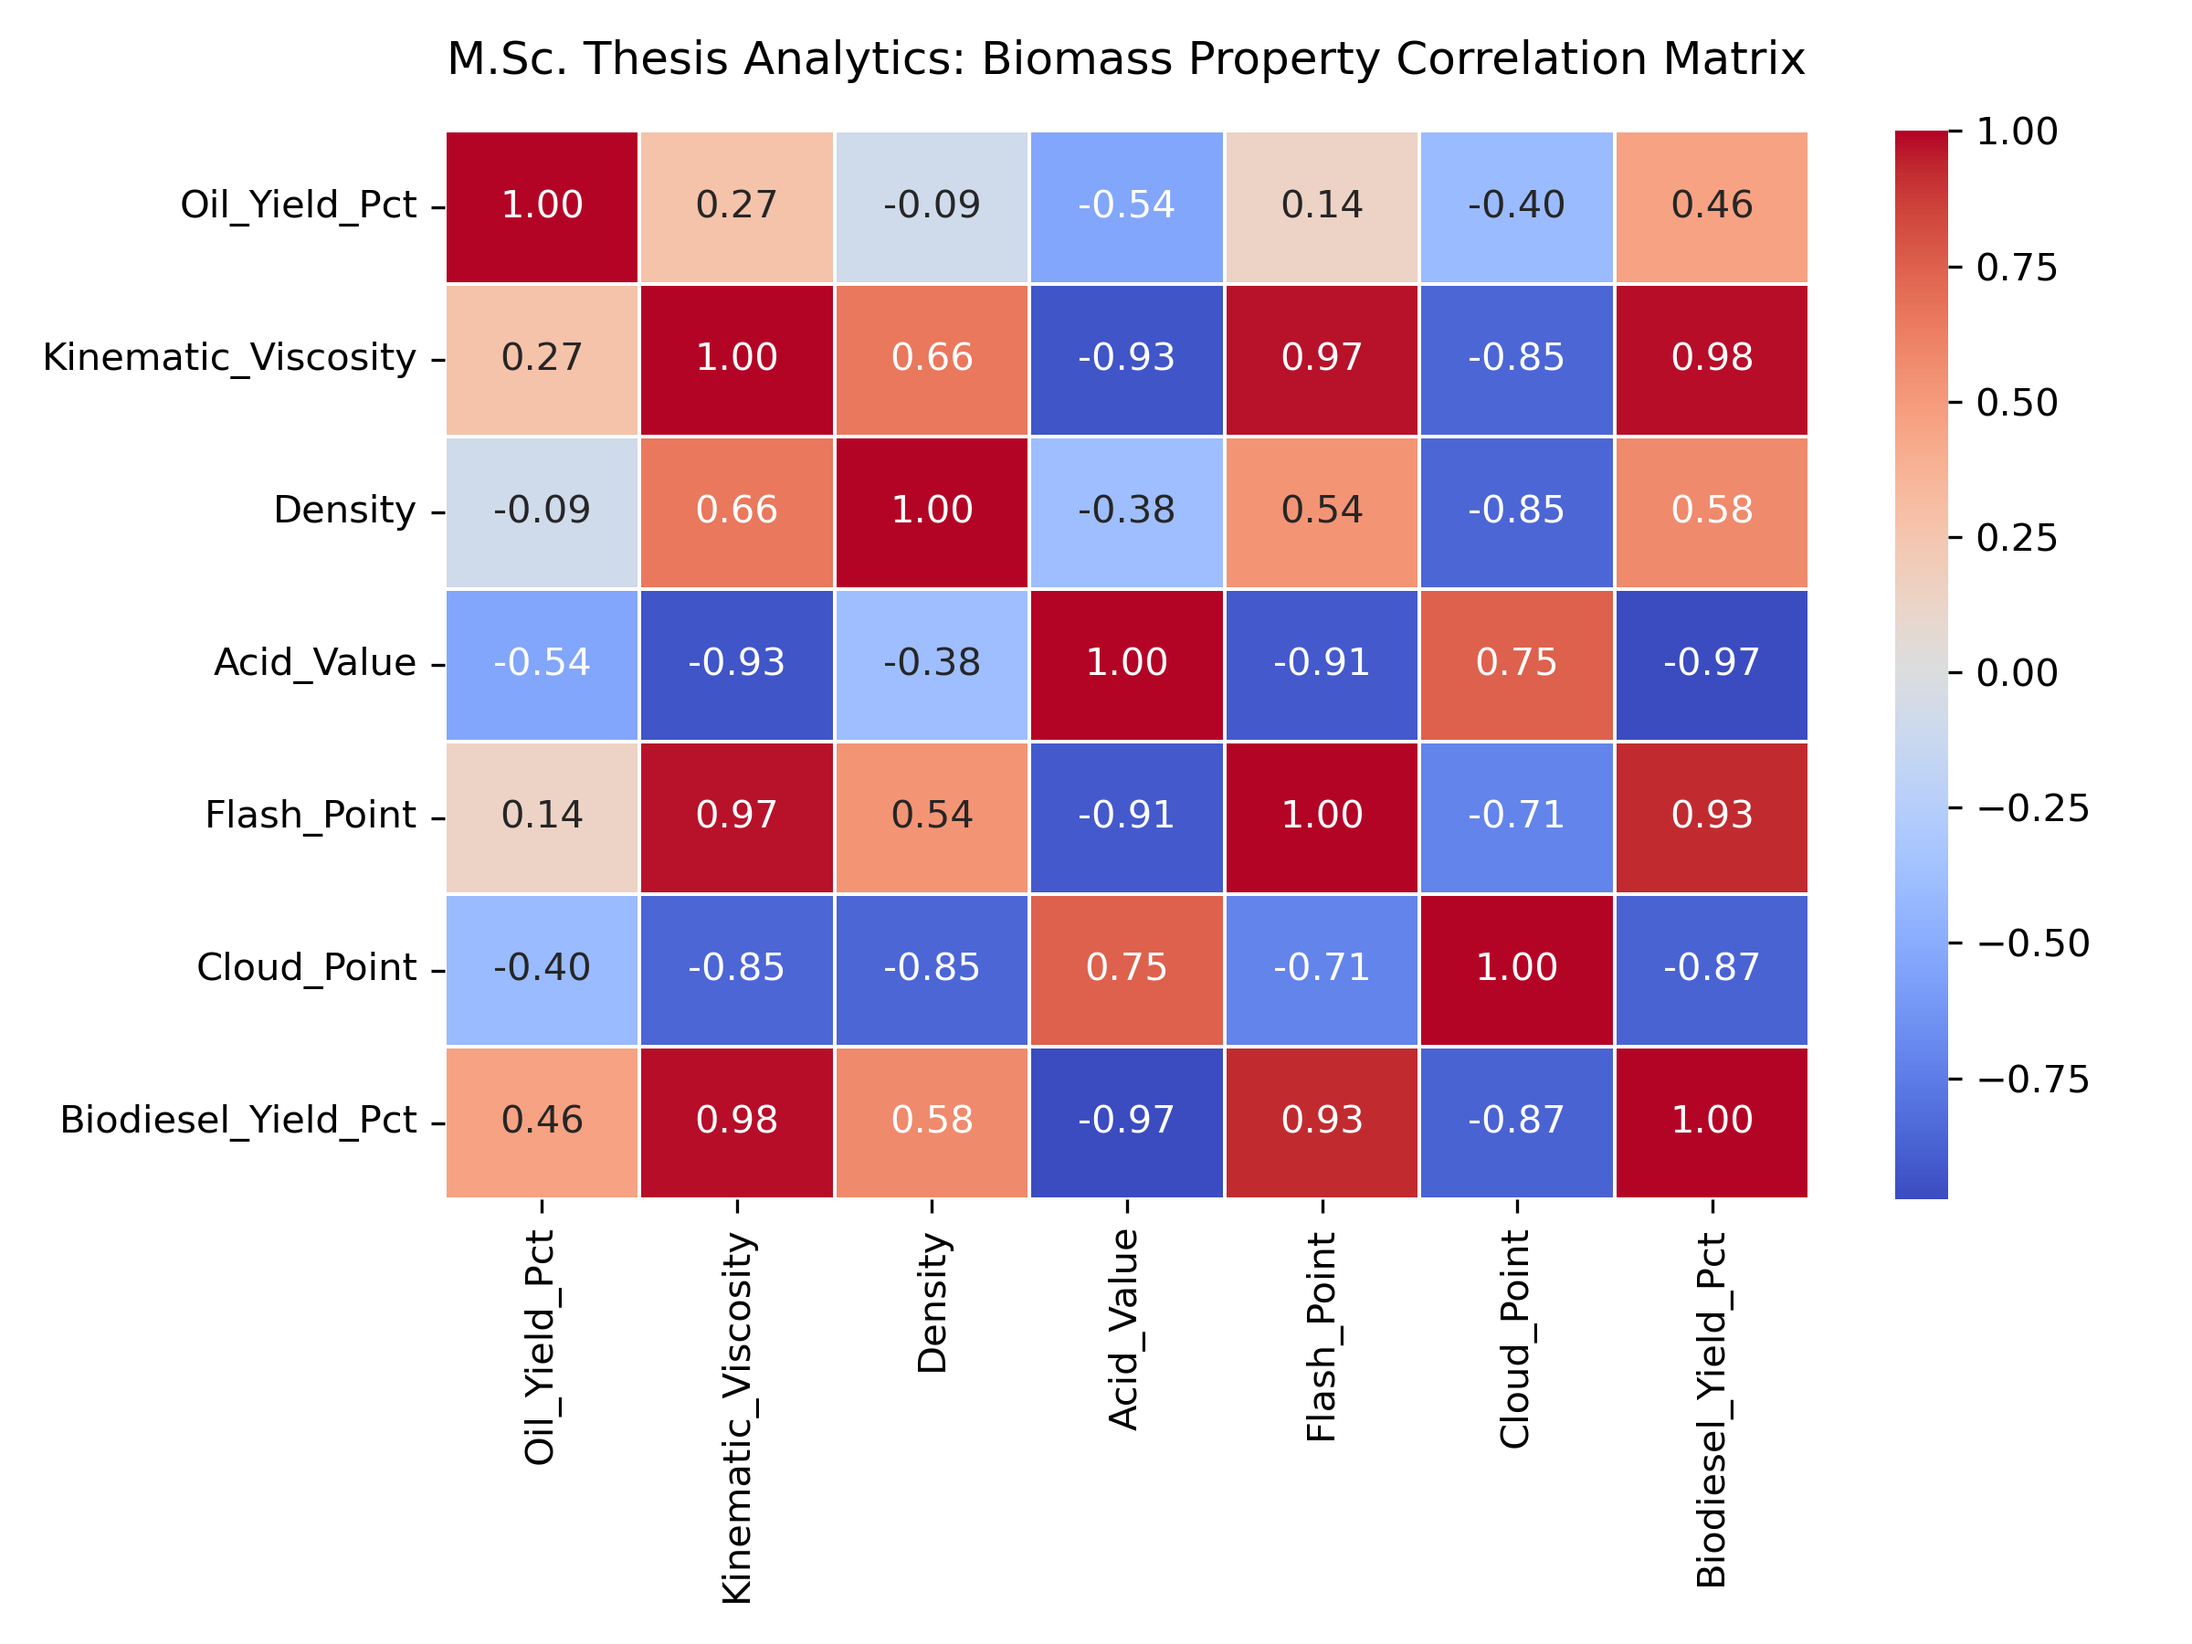
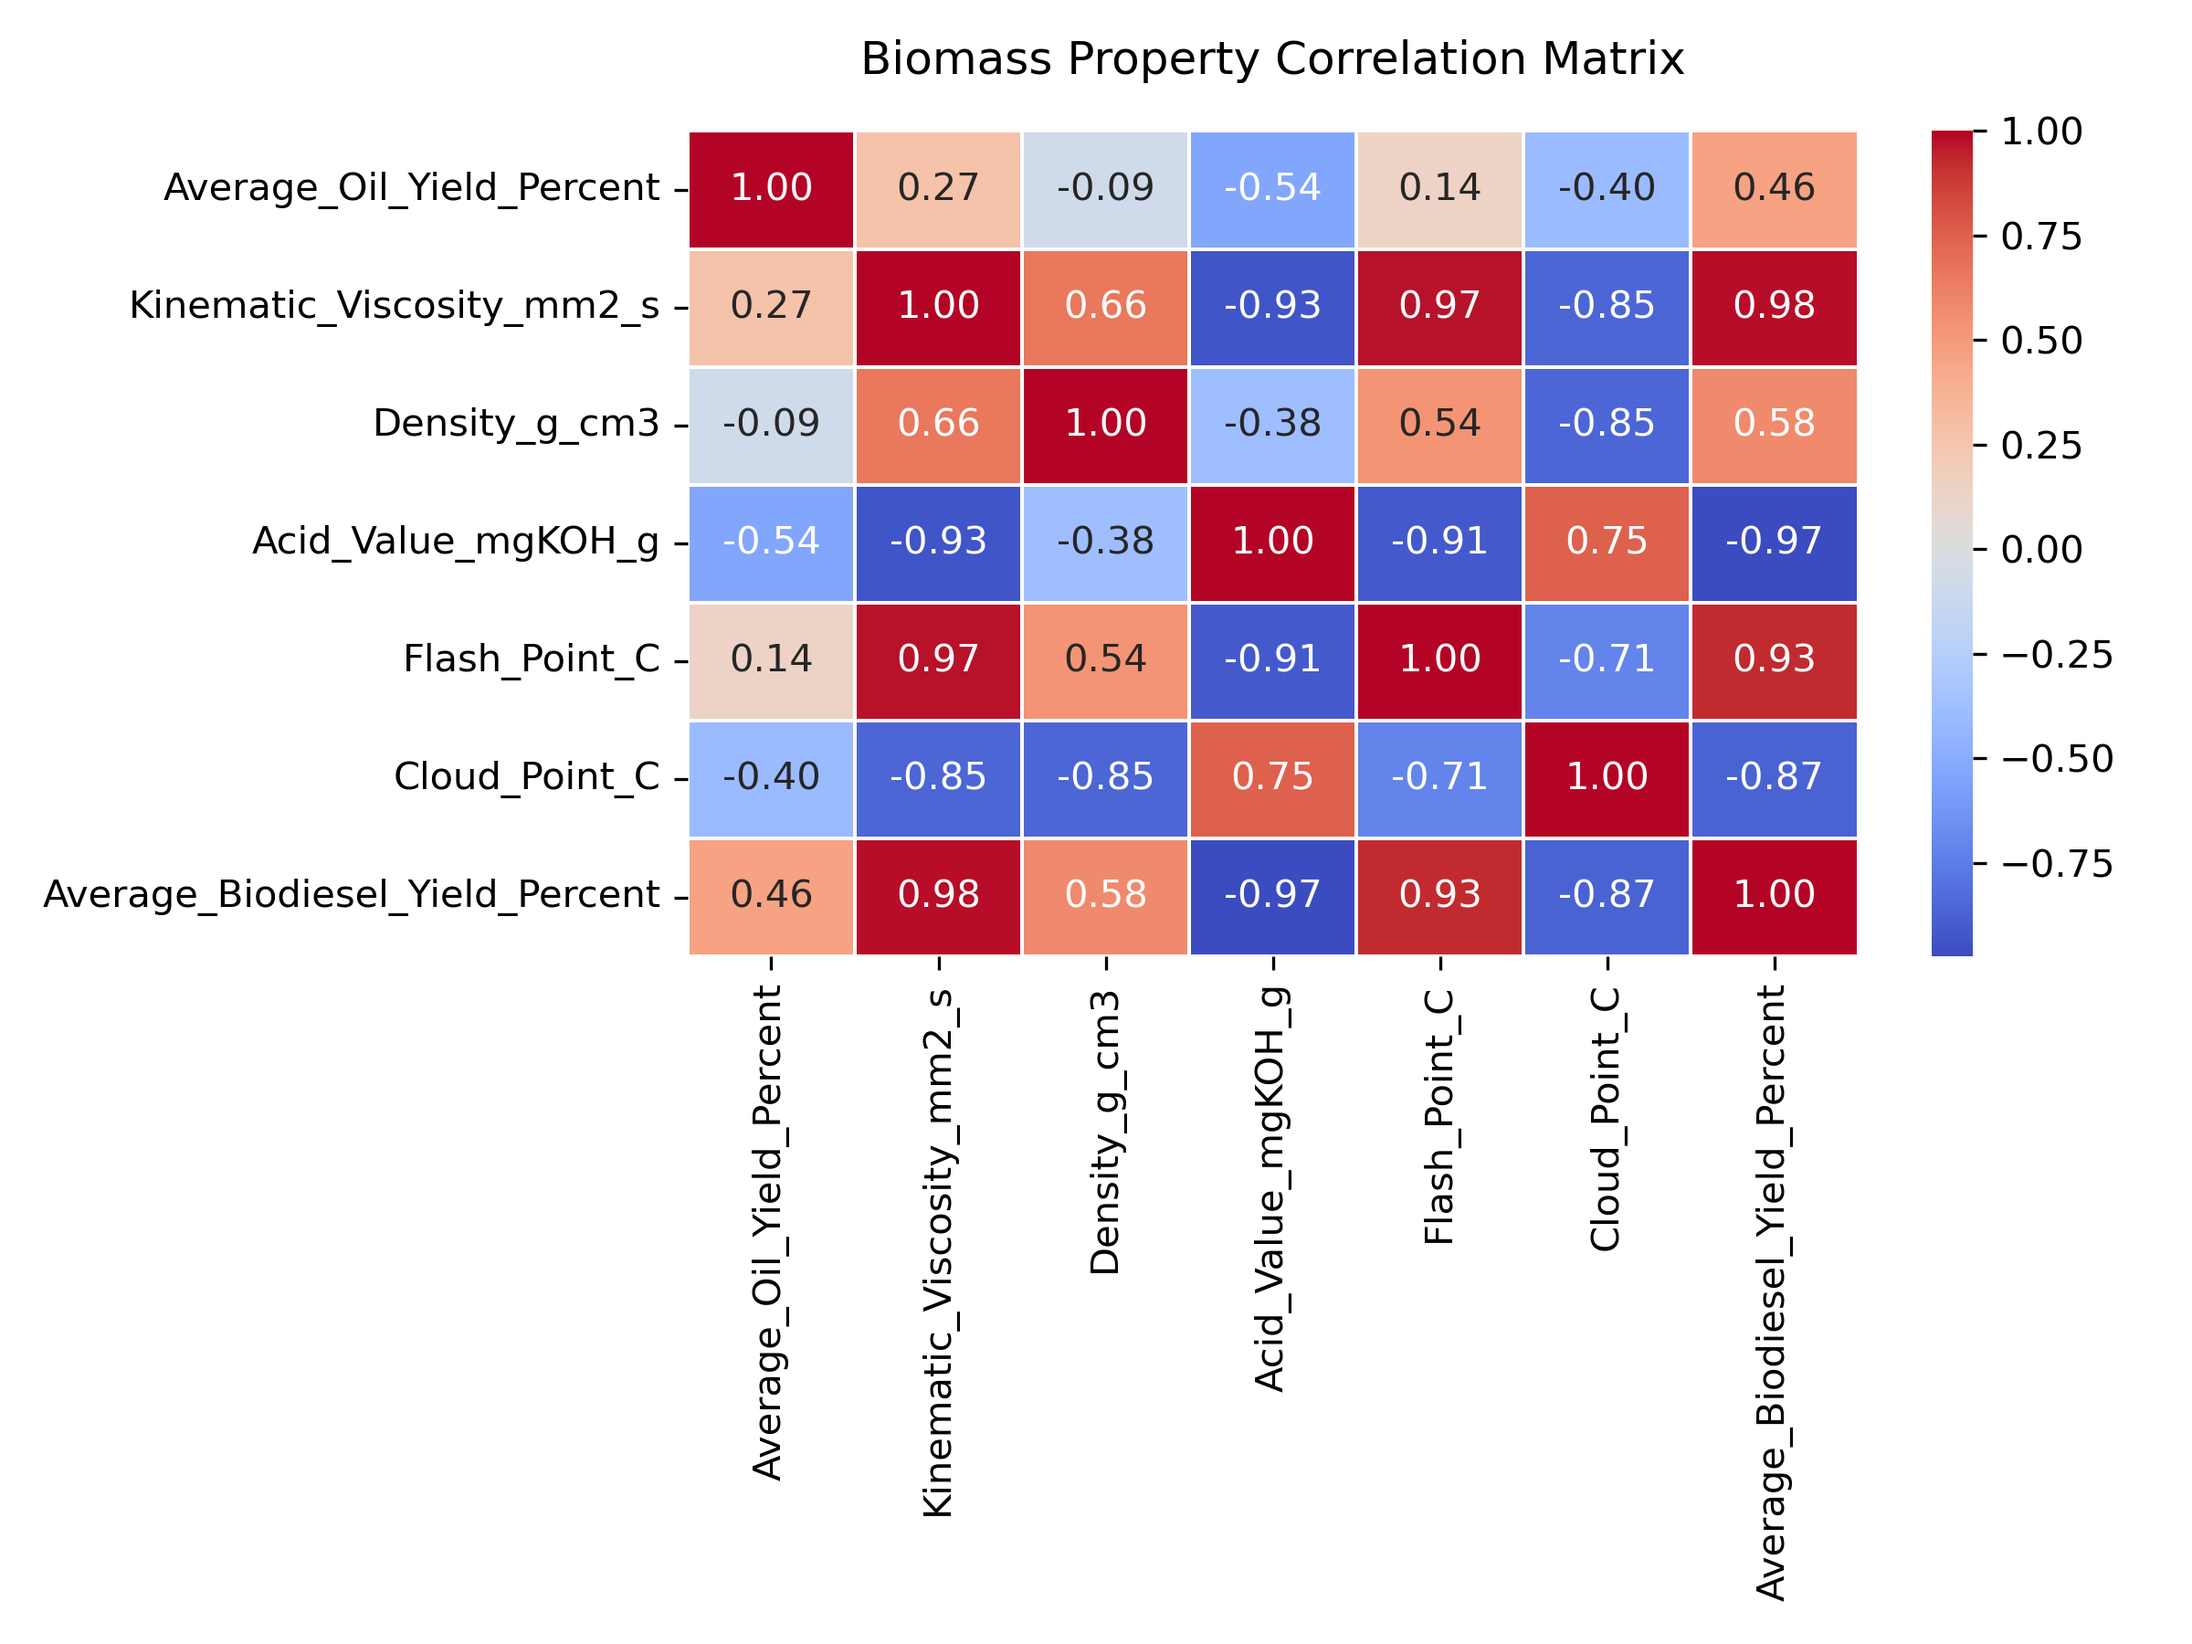
feat: implement CSV data ingestion pipeline and generate property heatmap

diff --git a/predictive_modeling.py b/predictive_modeling.py
@@ -5,33 +5,57 @@ import matplotlib.pyplot as plt
 import seaborn as sns
 from sklearn.ensemble import RandomForestRegressor
 
-# =====================================================================
-# 🎓 M.Sc. THESIS COMPUTATIONAL MODEL: BIODIESEL PROPERTIES & VISUALIZATION
-# =====================================================================
-print("Initializing M.Sc. Thesis Data Engineering Pipeline...")
+print("Initializing Biodiesel Data Engineering Pipeline...")
 
-# 1. PROGRAMMATIC DATA INGESTION
-# Populated using verified quantitative metrics from your published paper
-data_matrix = {
-    'Feedstock': ['Beef Tallow', 'Avocado Seed Pulp', 'Watermelon Seeds', 'Balanite Kernel'],
-    'Oil_Yield_Pct': [92.80, 10.96, 20.02, 39.65],
-    'Kinematic_Viscosity': [4.92, 5.02, 3.70, 5.42],
-    'Density': [0.87, 0.93, 0.86, 1.33],
-    'Acid_Value': [0.28, 0.84, 3.09, 0.56],
-    'Flash_Point': [154.0, 172.0, 102.0, 172.0],
-    'Cloud_Point': [-8.0, -5.0, -2.0, -13.0],
-    'Biodiesel_Yield_Pct': [87.40, 81.92, 57.24, 92.03]  # Target metric
+# Define paths relative to the current workspace
+yields_path = "data/raw_yields.csv"
+props_path = "data/physicochemical_properties.csv"
+
+# 1. VERIFY FILE ARCHITECTURE AND INGEST DATA DYNAMICALLY
+if not os.path.exists(yields_path) or not os.path.exists(props_path):
+    print("\n[X] Error: Data files missing from the /data directory.")
+    print("Please ensure raw_yields.csv and physicochemical_properties.csv exist.")
+    exit(1)
+
+# Ingest structured datasets into Pandas DataFrames
+yields_df = pd.read_csv(yields_path)
+props_df = pd.read_csv(props_path)
+
+# Restructure the matrix from long format to a wide column layout for machine learning
+melted_props = props_df.set_index('Parameter').T
+melted_props = melted_props.reset_index().rename(columns={'index': 'Feedstock_Key'})
+
+# Map shorthand labels back to unified full names for merging
+feedstock_mapping = {
+    'Avocado_B100': 'Avocado Seed Pulp',
+    'Watermelon_B100': 'Watermelon Seeds',
+    'Balanite_B100': 'Balanite Kernel',
+    'Beef_Tallow_B100': 'Beef Tallow Fat'
 }
+melted_props['Feedstock'] = melted_props['Feedstock_Key'].map(feedstock_mapping)
 
-df = pd.DataFrame(data_matrix)
-print("\n[✔] Data Ingested Successfully:")
-print(df[['Feedstock', 'Oil_Yield_Pct', 'Biodiesel_Yield_Pct']])
+# Standardize names in the yields file to match
+yields_mapping = {
+    'Avocado Seed Pulp': 'Avocado Seed Pulp',
+    'Watermelon Seeds': 'Watermelon Seeds',
+    'Balanite Kernel': 'Balanite Kernel',
+    'Beef Tallow Fat': 'Beef Tallow Fat'
+}
+yields_df['Feedstock'] = yields_df['Feedstock'].map(yields_mapping)
 
-# 2. MACHINE LEARNING ARCHITECTURE SETUP
-X = df[['Oil_Yield_Pct', 'Kinematic_Viscosity', 'Density', 'Acid_Value', 'Flash_Point', 'Cloud_Point']]
-y = df['Biodiesel_Yield_Pct']
+# Merge datasets into a unified analytical matrix
+df = pd.merge(yields_df, melted_props, on='Feedstock').dropna(subset=['Feedstock'])
+df = df.apply(pd.to_numeric, errors='ignore')
 
-# Fit model on baseline parameters
+print("\n[✔] Structural Dataset Ingested and Merged Successfully:")
+print(df[['Feedstock', 'Average_Oil_Yield_Percent', 'Average_Biodiesel_Yield_Percent']])
+
+# 2. PREDICTIVE MODEL CONFIGURATION
+features = ['Average_Oil_Yield_Percent', 'Kinematic_Viscosity_mm2_s', 'Density_g_cm3', 'Acid_Value_mgKOH_g', 'Flash_Point_C', 'Cloud_Point_C']
+X = df[features]
+y = df['Average_Biodiesel_Yield_Percent']
+
+# Fit regression model on parameters
 model = RandomForestRegressor(n_estimators=10, random_state=42)
 model.fit(X, y)
 print("\n[✔] Machine Learning Training Cycle Complete (Random Forest Fitted).")
@@ -40,30 +64,24 @@ print("\n[✔] Machine Learning Training Cycle Complete (Random Forest Fitted)."
 print("\n[✔] Computing Statistical Feature Engineering Matrices...")
 plt.figure(figsize=(8, 6))
 
-# Drop non-numeric column for mathematical correlation mapping
-numeric_df = df.drop(columns=['Feedstock'])
+numeric_df = df[features + ['Average_Biodiesel_Yield_Percent']]
 correlation_matrix = numeric_df.corr()
 
-# Construct the custom visualization matrix layout
 sns.heatmap(correlation_matrix, annot=True, cmap='coolwarm', fmt=".2f", linewidths=0.5)
-plt.title('M.Sc. Thesis Analytics: Biomass Property Correlation Matrix', fontsize=12, pad=15)
+plt.title('Biomass Property Correlation Matrix', fontsize=12, pad=15)
 plt.tight_layout()
 
-# Save image file directly to your workspace repository layout
 heatmap_filename = "biomass_property_correlation_matrix.png"
 plt.savefig(heatmap_filename, dpi=300)
-print(f"-> Generated Publication Graph Saved Exclusively As: {heatmap_filename}")
+print(f"-> Generated Analysis Graph Saved As: {heatmap_filename}")
 
-# 4. AUTOMATED COMPLIANCE SIMULATOR (ASTM D6751 / EN 14214 Verification)
+# 4. AUTOMATED COMPLIANCE SIMULATOR (ASTM D6751 Verification)
 def evaluate_blend_compliance(viscosity, flash_point):
-    """
-    Flags whether an engineered biomass blend meets standard criteria boundaries.
-    """
     visc_ok = 1.9 <= viscosity <= 6.0
     flash_ok = flash_point >= 130
     return "PASS (Compliant with Standard Regulation)" if (visc_ok and flash_ok) else "FAIL (Requires B20 Blending / Refinement)"
 
-print("\n--- Programmatic Quality Assurance Check (Simulated Pure Variants) ---")
+print("\n--- Programmatic Quality Assurance Check (Pure Variants) ---")
 for idx, row in df.iterrows():
-    status = evaluate_blend_compliance(row['Kinematic_Viscosity'], row['Flash_Point'])
+    status = evaluate_blend_compliance(row['Kinematic_Viscosity_mm2_s'], row['Flash_Point_C'])
     print(f"-> Feedstock: {row['Feedstock']} | Compliance Status: {status}")
